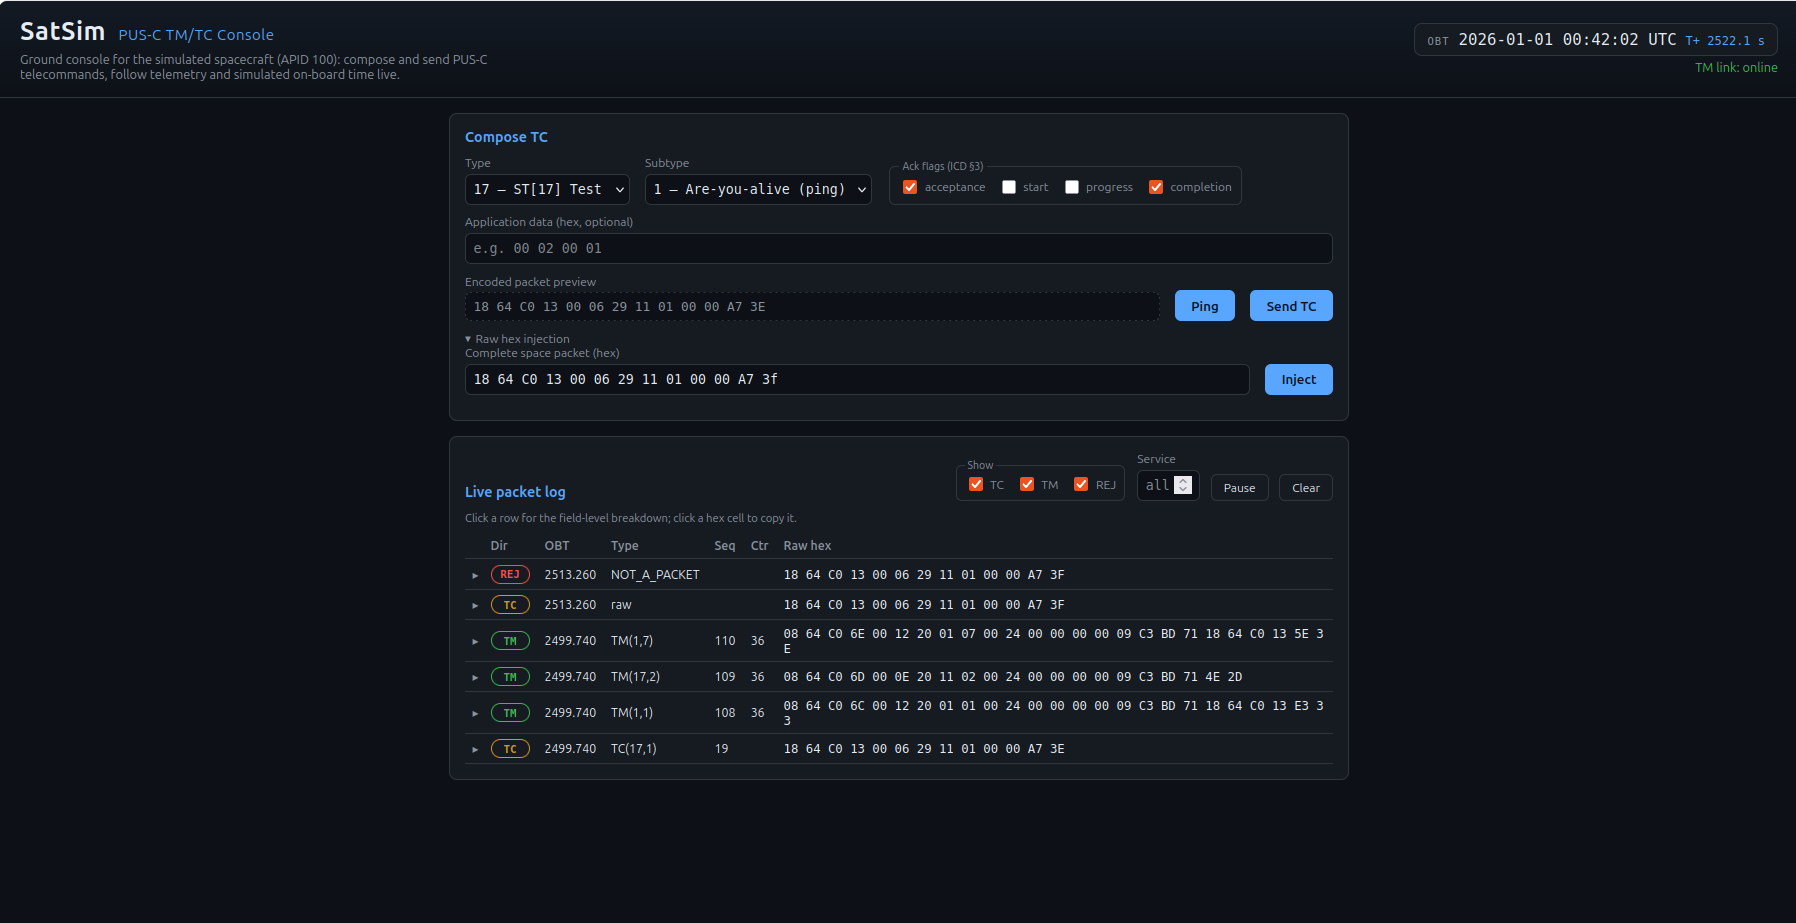
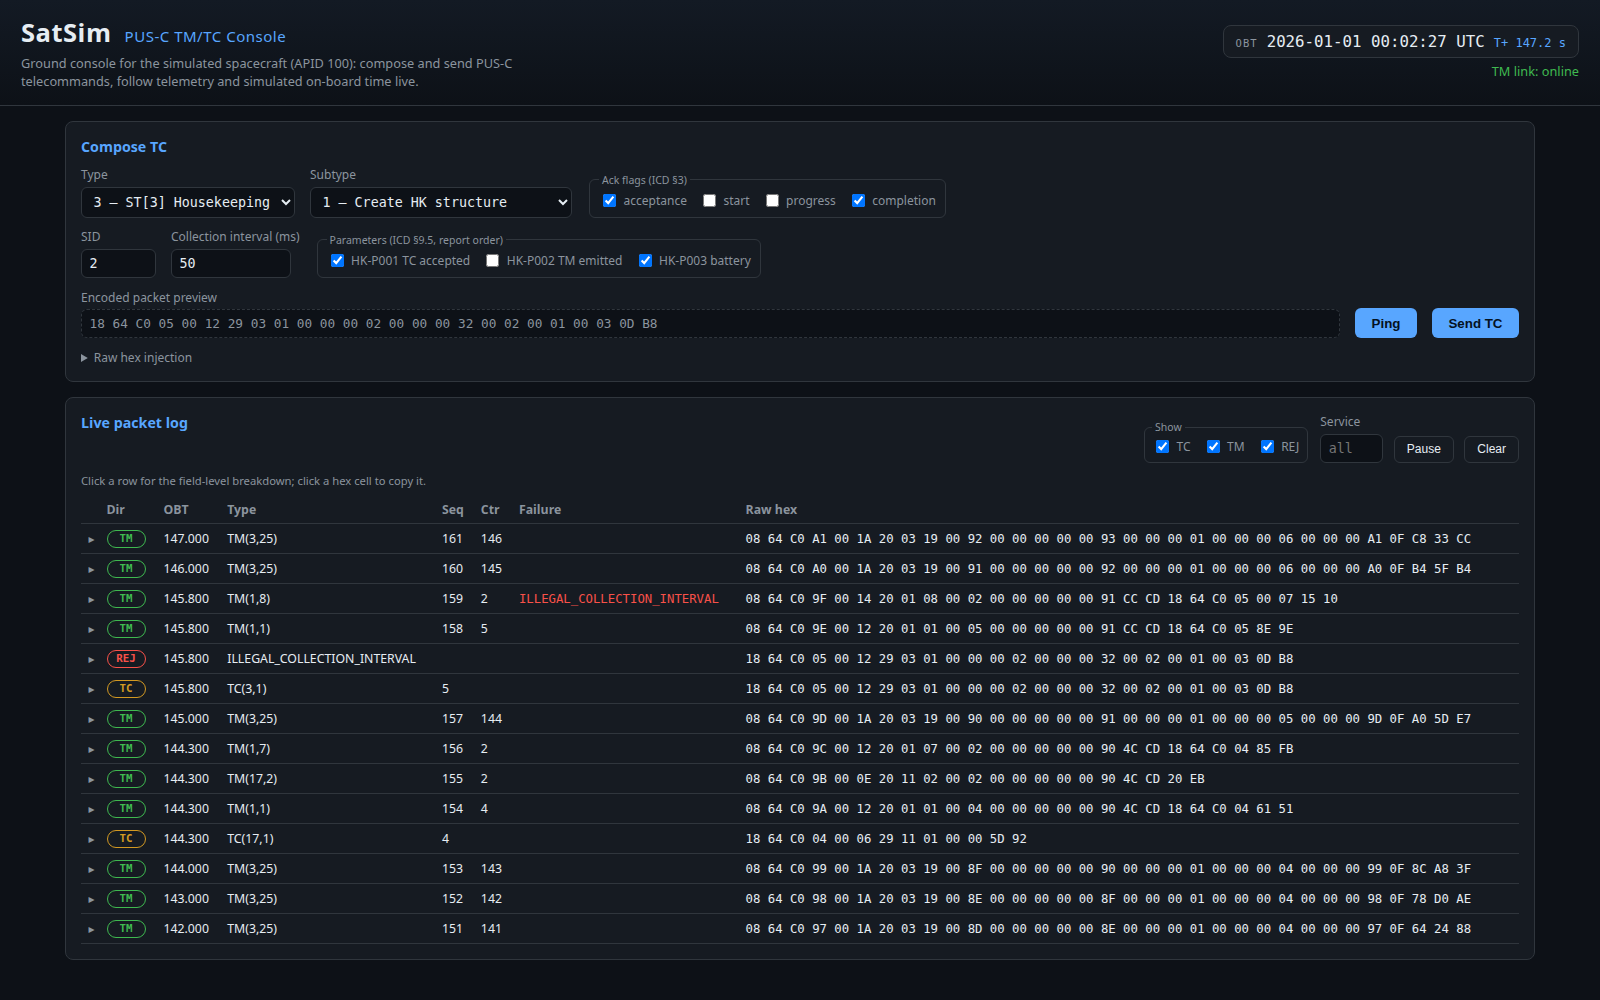
docs(readme): refresh console screenshot to the M1d frontend [SCR-006]
Old capture predated M1b-M1d: no HK heartbeats, no failure-code column,
narrow wrapping layout, and it showed the pre-SPR-001 response-above-TC
ordering. New capture (headless Chromium at the M1d baseline) shows the
structured TC(3,1) compose, a causally ordered ping group, and a TM(1,8)
with ILLEGAL_COLLECTION_INTERVAL in the dedicated column.

diff --git a/README.md b/README.md
@@ -16,7 +16,7 @@ idle, so the first visit may take up to a minute to wake the simulator
 (fresh boot, on-board time from zero). The instance always runs the latest
 master that passed the full CI gate.
 
-![SatSim console — live OBT clock, TC(17,1) ping answered by TM(1,1) acceptance, TM(17,2) report, and TM(1,7) completion](docs/assets/console.png)
+![SatSim console — structured TC(3,1) compose, live OBT clock, and a causally ordered packet log with periodic TM(3,25) housekeeping, a TC(17,1) ping group, and a TM(1,8) failure report with its ICD failure-code name in a dedicated column](docs/assets/console.png)
 
 *The console after one ping with default acknowledgement flags: acceptance
 report, service report, completion report — each row expandable to a